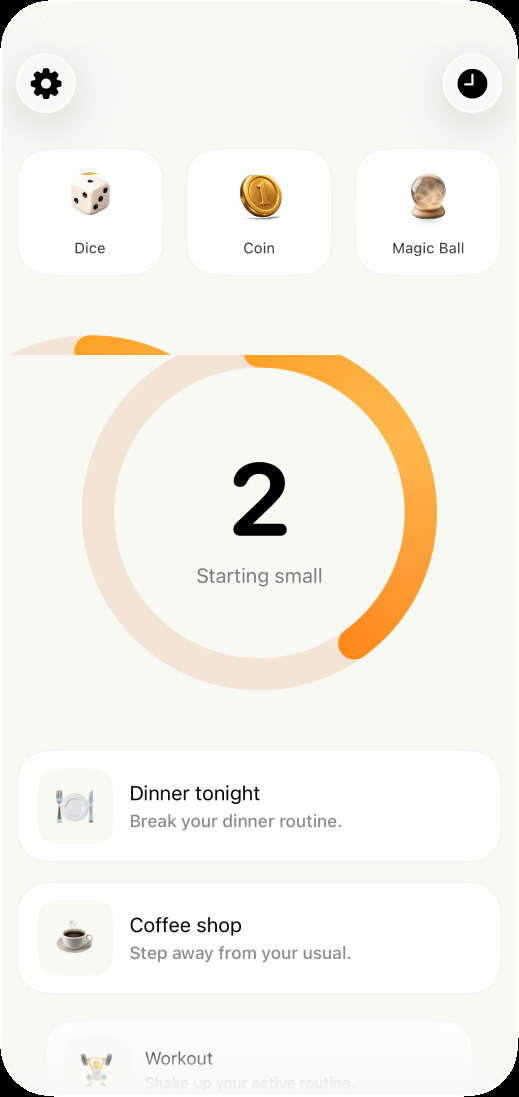
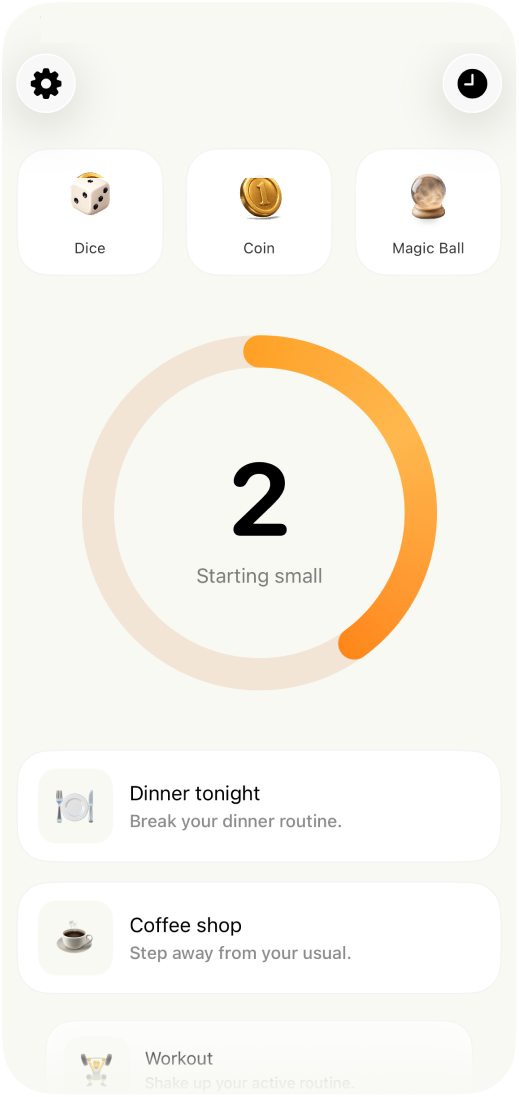
Fix home screenshot: swap tools without clipping the energy ring.

diff --git a/index.html b/index.html
@@ -476,7 +476,7 @@
     </figure>
     <figure class="outro-phone outro-phone--center">
       <span class="outro-phone-bezel">
-        <img src="img/screenshot-home.png?v=2" alt="" width="519" height="1097" loading="lazy" decoding="async" />
+        <img src="img/screenshot-home.png?v=3" alt="" width="519" height="1097" loading="lazy" decoding="async" />
       </span>
     </figure>
     <figure class="outro-phone outro-phone--right">